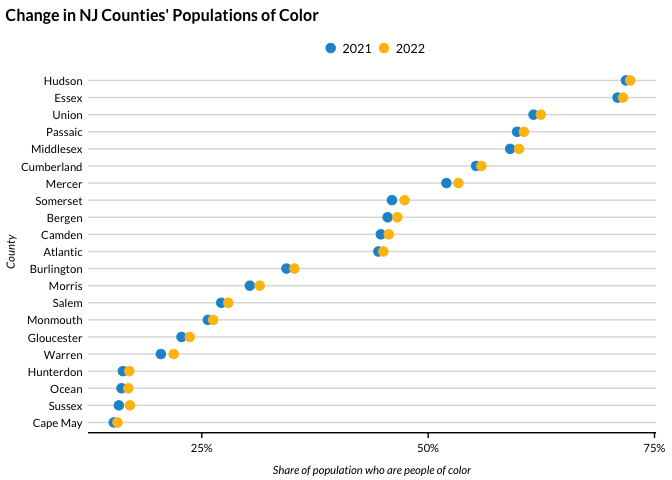
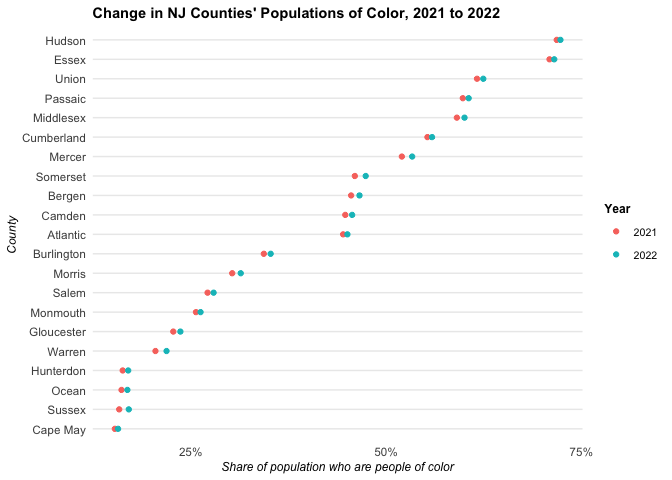
updating dependencies

diff --git a/README.md b/README.md
@@ -44,17 +44,6 @@ an up-to-date version frequently!
 ``` r
 library(urbnindicators)
 library(ggplot2)
-library(urbnthemes)
-#> Setting Mac/Linux options...
-#> 
-#> Attaching package: 'urbnthemes'
-#> The following objects are masked from 'package:ggplot2':
-#> 
-#>     geom_bar, geom_col, scale_color_discrete, scale_color_gradientn,
-#>     scale_color_ordinal, scale_colour_discrete, scale_colour_gradientn,
-#>     scale_colour_ordinal, scale_fill_discrete, scale_fill_gradientn,
-#>     scale_fill_ordinal
-urbnthemes::set_urbn_defaults(style = "print")
 
 acs_df = compile_acs_data(
   variables = NULL,
@@ -89,14 +78,22 @@ acs_df %>%
       color = factor(data_source_year))) +
   ggplot2::geom_point() +
   ggplot2::labs(
-    title = "Change in NJ Counties' Populations of Color",
+    title = "Change in NJ Counties' Populations of Color, 2021 to 2022",
     x = "County", 
     y = "Share of population who are people of color",
     color = "Year") +
   ggplot2::scale_y_continuous(
     breaks = c(0, .25, .50, .75, 1.0),
     labels = scales::percent) +
-  ggplot2::coord_flip()
+  ggplot2::coord_flip() +
+  ggplot2::theme_minimal() +
+  ggplot2::theme(
+    axis.title = ggplot2::element_text(size = 9, face = "italic"),
+    plot.title = ggplot2::element_text(size = 11, face = "bold"),
+    panel.grid.minor = ggplot2::element_blank(),
+    panel.grid.major.x = ggplot2::element_blank(),
+    legend.title = ggplot2::element_text(size = 9, face = "bold"),
+    legend.text = ggplot2::element_text(size = 8))
 ```
 
 <img src="man/figures/README-example-1.png" width="100%" />
